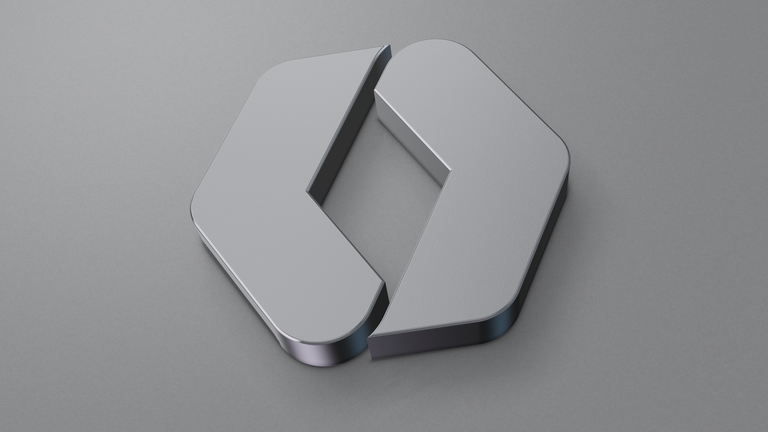
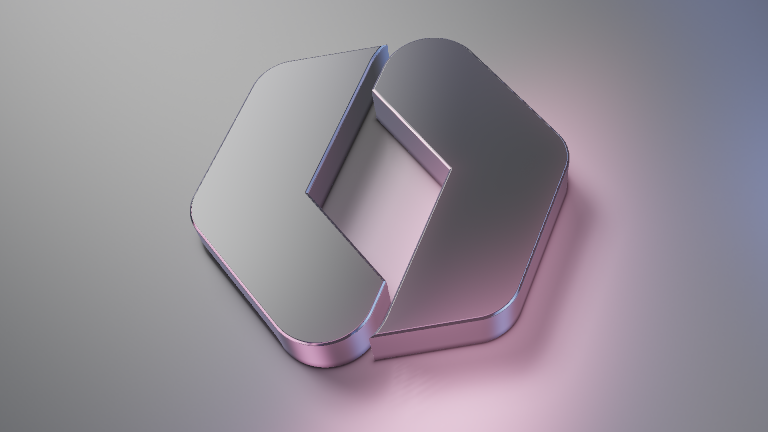
Enhance Portal motion and day-night lighting
Add local-time studio lighting with gradual dawn and dusk transitions,
directional daytime reflections, colored edge accents, and a darker night
scene. Refine the saved-time motion and balance shadow sampling cost.

Extend daylight lifecycle tests to Portal and update the documentation and
gallery preview. Validate with scripts/build.sh, scripts/test.sh, shader
output checks, and verified daytime and nighttime movie exports.

diff --git a/Tests/DaylightTests.swift b/Tests/DaylightTests.swift
@@ -43,66 +43,90 @@ import CoreVideo
         _ = NSApplication.shared
         let resources = URL(fileURLWithPath: CommandLine.arguments[1])
         let entries = ShaderLibrary.entries(in: resources)
-        let flight = entries.first { $0.id == "Flight" }!
-        let kernel = try ShaderKernel(source: flight.sourceURL)
-        precondition(kernel.usesLocalTime, "Flight does not expose its local-hour input")
         let size = CGSize(width: 320, height: 200)
-        func render(_ hour: Float) throws -> [UInt8] {
-            pixels(try kernel.frame(time: 18, size: size, localHour: hour))
-        }
-        let noon = try render(12), evening = try render(18.5), midnight = try render(0)
-        let repeatedNoon = try render(12), wrappedMidnight = try render(24)
-        precondition(noon == repeatedNoon, "Identical motion and local hour must render identically")
-        precondition(noon != evening && evening != midnight && noon != midnight,
-                     "Day, evening, and night must produce distinct lighting")
-        precondition(midnight == wrappedMidnight, "Midnight must match normalized 24:00")
-        let beforeMidnight = try render(24 - 1.0 / 3600), afterMidnight = try render(1.0 / 3600)
-        let midnightDelta = zip(beforeMidnight, afterMidnight).enumerated()
-            .filter { $0.offset % 4 != 3 }
-            .reduce(0.0) { $0 + Double(abs(Int($1.element.0) - Int($1.element.1))) }
-            / Double(Int(size.width * size.height) * 3)
-        precondition(midnightDelta < 0.25, "Lighting jumps across midnight: mean channel delta \(midnightDelta)")
+        func checkDaylight(_ entry: ShaderEntry) throws {
+            let kernel = try ShaderKernel(source: entry.sourceURL)
+            precondition(kernel.usesLocalTime, "\(entry.id) does not expose its local-hour input")
+            func render(_ hour: Float) throws -> [UInt8] {
+                pixels(try kernel.frame(time: 18, size: size, localHour: hour))
+            }
+            let noon = try render(12), evening = try render(18.5), midnight = try render(0)
+            let repeatedNoon = try render(12), wrappedMidnight = try render(24)
+            precondition(noon == repeatedNoon, "Identical motion and local hour must render identically")
+            precondition(noon != evening && evening != midnight && noon != midnight,
+                         "Day, evening, and night must produce distinct lighting")
+            precondition(midnight == wrappedMidnight, "Midnight must match normalized 24:00")
+            let beforeMidnight = try render(24 - 1.0 / 3600), afterMidnight = try render(1.0 / 3600)
+            let midnightDelta = zip(beforeMidnight, afterMidnight).enumerated()
+                .filter { $0.offset % 4 != 3 }
+                .reduce(0.0) { $0 + Double(abs(Int($1.element.0) - Int($1.element.1))) }
+                / Double(Int(size.width * size.height) * 3)
+            precondition(midnightDelta < 0.25, "Lighting jumps across midnight: mean channel delta \(midnightDelta)")
 
-        let root = CALayer(); root.frame = CGRect(origin: .zero, size: size)
-        var hour: Float = 12
-        let clock = MotionClock(saved: 18)
-        let renderer = try ShaderRenderer(entry: flight, clock: clock, root: root, scale: 1, daylightHour: { hour })
-        var renderError: Error?
-        renderer.onError = { renderError = $0 }
-        renderer.setDaylightUpdatesEnabled(true)
-        if let renderError { throw renderError }
-        precondition(renderer.isUpdatingDaylight && !renderer.isRendering, "Paused Flight needs only its daylight timer")
-        precondition(pixels(renderer.lastFrame!) == noon, "Injected noon differs from fixed-hour export")
-        for (newHour, expected) in [(Float(18.5), evening), (Float(0), midnight)] {
-            hour = newHour
-            let count = renderer.frameCount
-            renderer.refreshDaylight()
+            if entry.id == "Portal" {
+                func brightness(_ frame: [UInt8]) -> Double {
+                    stride(from: 0, to: frame.count, by: 4).reduce(0.0) { sum, i in
+                        sum + 0.0722*Double(frame[i]) + 0.7152*Double(frame[i+1]) + 0.2126*Double(frame[i+2])
+                    } / Double(frame.count / 4) / 255
+                }
+                let day = brightness(noon), night = brightness(midnight)
+                precondition(day > night + 0.12, "Portal's neutral daylight must visibly brighten the scene")
+                let dawn = brightness(try render(7.75)), dusk = brightness(try render(18.75))
+                precondition(dawn > night && dawn < day && dusk > night && dusk < day,
+                             "Portal's dawn and dusk must ease between night and day")
+                for boundary: Float in [6.5, 9, 17, 20.5] {
+                    let before = try render(boundary - 1.0 / 3600)
+                    let after = try render(boundary + 1.0 / 3600)
+                    let largestStep = zip(before, after).map { abs(Int($0) - Int($1)) }.max()!
+                    precondition(largestStep <= 1, "Portal's lighting jumps at a day/night transition")
+                }
+            }
+
+            let root = CALayer(); root.frame = CGRect(origin: .zero, size: size)
+            var hour: Float = 12
+            let clock = MotionClock(saved: 18)
+            let renderer = try ShaderRenderer(entry: entry, clock: clock, root: root, scale: 1, daylightHour: { hour })
+            var renderError: Error?
+            renderer.onError = { renderError = $0 }
+            renderer.setDaylightUpdatesEnabled(true)
             if let renderError { throw renderError }
-            precondition(renderer.frameCount == count + 1 && pixels(renderer.lastFrame!) == expected,
-                         "Paused lighting did not follow the wall clock")
-            precondition(clock.value == 18 && clock.settled && !renderer.isRendering,
-                         "Updating daylight advanced saved motion")
+            precondition(renderer.isUpdatingDaylight && !renderer.isRendering, "Paused \(entry.id) needs only its daylight timer")
+            precondition(pixels(renderer.lastFrame!) == noon, "Injected noon differs from fixed-hour export")
+            for (newHour, expected) in [(Float(18.5), evening), (Float(0), midnight)] {
+                hour = newHour
+                let count = renderer.frameCount
+                renderer.refreshDaylight()
+                if let renderError { throw renderError }
+                precondition(renderer.frameCount == count + 1 && pixels(renderer.lastFrame!) == expected,
+                             "Paused lighting did not follow the wall clock")
+                precondition(clock.value == 18 && clock.settled && !renderer.isRendering,
+                             "Updating daylight advanced saved motion")
+            }
+            renderer.setDaylightUpdatesEnabled(false)
+            let held = renderer.lastFrame!, heldCount = renderer.frameCount
+            hour = 12
+            renderer.refreshDaylight()
+            precondition(!renderer.isUpdatingDaylight && renderer.frameCount == heldCount && renderer.lastFrame === held,
+                         "A queued daylight callback must not draw after disabling updates")
+            renderer.setDaylightUpdatesEnabled(true)
+            if let renderError { throw renderError }
+            precondition(renderer.frameCount == heldCount + 1 && pixels(renderer.lastFrame!) == noon,
+                         "Re-enabling daylight must immediately catch up")
+            precondition(clock.value == 18, "Catching up after suspension advanced motion")
+
+            renderer.start()
+            let animatingCount = renderer.frameCount
+            renderer.refreshDaylight()
+            precondition(renderer.frameCount == animatingCount, "Daylight refresh duplicated an active animation timer")
+            renderer.stop()
+            precondition(renderer.isUpdatingDaylight && !renderer.isRendering, "Stopping motion also stopped daylight")
+            renderer.setDaylightUpdatesEnabled(false)
         }
-        renderer.setDaylightUpdatesEnabled(false)
-        let held = renderer.lastFrame!, heldCount = renderer.frameCount
-        hour = 12
-        renderer.refreshDaylight()
-        precondition(!renderer.isUpdatingDaylight && renderer.frameCount == heldCount && renderer.lastFrame === held,
-                     "A queued daylight callback must not draw after disabling updates")
-        renderer.setDaylightUpdatesEnabled(true)
-        if let renderError { throw renderError }
-        precondition(renderer.frameCount == heldCount + 1 && pixels(renderer.lastFrame!) == noon,
-                     "Re-enabling daylight must immediately catch up")
-        precondition(clock.value == 18, "Catching up after suspension advanced motion")
+        for name in ["Flight", "Portal"] {
+            try checkDaylight(entries.first { $0.id == name }!)
+        }
 
-        renderer.start()
-        let animatingCount = renderer.frameCount
-        renderer.refreshDaylight()
-        precondition(renderer.frameCount == animatingCount, "Daylight refresh duplicated an active animation timer")
-        renderer.stop()
-        precondition(renderer.isUpdatingDaylight && !renderer.isRendering, "Stopping motion also stopped daylight")
-        renderer.setDaylightUpdatesEnabled(false)
-
+        var hour: Float = 12
         let ordinary = entries.first { $0.id == ShaderLibrary.defaultShader }!
         let ordinaryRoot = CALayer(); ordinaryRoot.frame = CGRect(origin: .zero, size: size)
         let ordinaryRenderer = try ShaderRenderer(entry: ordinary, clock: MotionClock(saved: 18),
@@ -114,6 +138,6 @@ import CoreVideo
                      "Artwork without a local-hour input must not acquire a daylight timer")
         precondition(ordinaryRenderer.frameCount == ordinaryCount && ordinaryRenderer.lastFrame === ordinaryFrame,
                      "Other wallpapers must retain their exact held surface")
-        print("PASS: civil time, DST, time zones, deterministic daylight, midnight continuity, frozen motion, suspension, and unchanged ordinary wallpapers")
+        print("PASS: civil time, DST, time zones, Flight and Portal daylight, smooth transitions, midnight continuity, frozen motion, suspension, and unchanged ordinary wallpapers")
     }
 }

diff --git a/Sources/Shared/ShaderRenderer.swift b/Sources/Shared/ShaderRenderer.swift
@@ -191,7 +191,7 @@ final class ShaderRenderer {
     var isRendering: Bool { timer != nil }
     var isUpdatingDaylight: Bool { daylightTimer != nil }
 
-    /// A single environmental refresh per minute keeps the sky current while
+    /// A single environmental refresh per minute keeps environmental lighting current while
     /// motion remains exactly paused. No animation timer runs on the desktop.
     func setDaylightUpdatesEnabled(_ enabled: Bool) {
         guard enabled && kernel.usesLocalTime else {

diff --git a/README.md b/README.md
@@ -2,7 +2,7 @@
 
 Living wallpapers, drawn in Metal.
 
-Shader Paper moves while your Mac is locked or showing its screen saver, gently settles when you return, and holds its place while you work. Each wallpaper remembers its place and continues from there next time. Flight's sky also follows your Mac's local time, with dawn, daylight, sunset, and moonlit clouds.
+Shader Paper moves while your Mac is locked or showing its screen saver, gently settles when you return, and holds its place while you work. Each wallpaper remembers its place and continues from there next time. Flight's sky and Portal's studio lighting also follow your Mac's local time. Flight shifts through dawn, daylight, sunset, and moonlit clouds; Portal shows neutral silver by day and a darker studio at night, with colored edge accents throughout.
 
 ![Ink](docs/previews/Ink.png)
 
@@ -13,14 +13,14 @@ Eight included wallpapers: **Fable 5**, **GPT6-Astra**, **GPT6-Astra-II**, **Ink
 | Portal | Flight |
 | --- | --- |
 | ![Portal](docs/previews/Portal.png) | ![Flight](docs/previews/Flight.png) |
-| The [WorkOS](https://workos.com/) mark sculpted in magnesium: fine bead-blasted faces, precise chamfers, brushed cut walls, subtle violet and blue reflections, and a gentle turn accompanied by a drifting camera. | Tiny airliners crossing sunlit cloud banks, leaving fine trails that slowly dissolve. |
+| The [WorkOS](https://workos.com/) mark sculpted in magnesium: fine bead-blasted faces, precise chamfers, brushed cut walls, directional daylight with silver and blue edge highlights, a dark evening studio, restrained pink, violet, and blue reflections, and a gentle turn accompanied by a drifting camera. | Tiny airliners crossing sunlit cloud banks, leaving fine trails that slowly dissolve. |
 
 | Ink | Light | Weather |
 | --- | --- | --- |
 | ![Ink](docs/previews/Ink.png) | ![Light](docs/previews/Light.png) | ![Weather](docs/previews/Weather.png) |
 | Graphite finding paths through paper. | A quiet caustic cast by unseen glass. | Mist passing through a small landscape. |
 
-The artwork renders directly from its saved time. There is no recorded loop in the native wallpaper app. Once motion settles, its animation timer stops. Flight refreshes its lighting about once a minute while the aircraft and clouds stay still; other wallpapers retain the exact settled frame. Sky colors follow an artistic daily schedule, without location access or a sunrise calculation. Sleep and inactive surfaces stop these lighting updates too.
+The artwork renders directly from its saved time. There is no recorded loop in the native wallpaper app. Once motion settles, its animation timer stops. Flight and Portal refresh their lighting about once a minute while their motion stays still; other wallpapers retain the exact settled frame. Lighting follows an artistic daily schedule, without location access or a sunrise calculation. Portal eases into daylight from 06:30 to 09:00 and back to night from 17:00 to 20:30, using your Mac’s local time. Sleep and inactive surfaces stop these lighting updates too.
 
 ## Build and run
 
@@ -85,6 +85,6 @@ Builds compile and render every selected shader at two times and aspect ratios. 
 
 Live rendering uses 30 fps, or 15 in Low Power Mode, and caps the long edge at 2560 pixels. Lock/unlock changes motion over two seconds. Sleep and Reduce Motion pause immediately. The renderer converts half-float artwork to SDR for display. Exports can use higher resolutions.
 
-Shader entry points are `vertex_main` and `fragment_main`, with a `Float` animation time at fragment buffer 0 and an optional `Float` local hour at fragment buffer 1. Build thumbnails and exports default to noon; use `--hour` when exporting a different sky. See [architecture](docs/architecture.md) and the [artwork review](docs/studies/README.md).
+Shader entry points are `vertex_main` and `fragment_main`, with a `Float` animation time at fragment buffer 0 and an optional `Float` local hour at fragment buffer 1. Build thumbnails and exports default to noon; use `--hour` when exporting different lighting. See [architecture](docs/architecture.md) and the [artwork review](docs/studies/README.md).
 
 Shader Paper grew out of [A Visual Meditation on Thinking](https://github.com/kanalo-shrek/a-visual-meditation). That project retains the original model experiment. Source history and third-party attributions are documented in [NOTICE.md](NOTICE.md).

diff --git a/docs/architecture.md b/docs/architecture.md
@@ -6,9 +6,9 @@ The shared clock integrates a smooth velocity change when macOS switches between
 
 The renderer first evaluates the shader into an `rgba16Float` texture, then converts the result to an SDR display surface. Artwork needs a fullscreen triangle, `vertex_main`, `fragment_main`, and a Float animation time at fragment buffer 0. Time-aware artwork may read a Float local hour in [0, 24) at fragment buffer 1. Pipeline reflection detects use of that optional input; existing artwork ignores it. No external shader files or renderer services are loaded at runtime.
 
-Flight's lighting uses local civil time from the Mac's current calendar and time zone, independently of saved motion time. While motion is paused, one environmental redraw about every minute updates the sky without moving aircraft or clouds. Animated frames already update the lighting, so the minute callback skips them. Only valid, active, non-preview surfaces schedule these updates; sleep, inactivity, invalidation, replacement, and render errors cancel them. Clock and time-zone notifications refresh eligible held surfaces, and waking re-enables updates with an immediate redraw. Reduce Motion keeps geometry paused while allowing the sky's lighting to follow the clock. Other shaders retain their exact settled display buffer and have no daylight timer.
+Flight and Portal lighting use local civil time from the Mac's current calendar and time zone, independently of saved motion time. While motion is paused, one environmental redraw about every minute updates the lighting without advancing geometry, camera motion, or animated accent sweeps. Animated frames already update the lighting, so the minute callback skips them. Only valid, active, non-preview surfaces schedule these updates; sleep, inactivity, invalidation, replacement, and render errors cancel them. Clock and time-zone notifications refresh eligible held surfaces, and waking re-enables updates with an immediate redraw. Reduce Motion keeps geometry paused while allowing environmental lighting to follow the clock. Other shaders retain their exact settled display buffer and have no daylight timer.
 
-Build thumbnails and exports use a fixed noon hour by default. The exporter accepts `--hour` to reproduce dawn, dusk, or night independently of animation time, including repeated frames and movie comparisons. The daily palette is artist-directed rather than tied to geographic sunrise or seasonal day length.
+Build thumbnails and exports use a fixed noon hour by default. The exporter accepts `--hour` to reproduce dawn, dusk, or night independently of animation time, including repeated frames and movie comparisons. The daily palette is artist-directed rather than tied to geographic sunrise or seasonal day length. Portal blends its neutral room lighting from night to day over 06:30–09:00 and from day to night over 17:00–20:30. Its original colored grazing lights keep their source colors and intensities across the day; their movement uses saved animation time. Additional silver and blue edge lights accompany the daytime window, with less ambient fill and a stronger cast shadow.
 
 Selection registers the embedded extension and updates the user's private wallpaper store atomically. It preserves a previous-selection snapshot and timestamped backups. Restore keeps subsequent independent user choices. Build and test scripts do not activate the wallpaper.
 

diff --git a/tools/export/README.md b/tools/export/README.md
@@ -13,7 +13,7 @@ Build with `bash tools/export/build.sh` from the repository root. This tool comp
 
 All commands require `--shader FILE --out FILE`. The default dimensions are 1920 × 1080, time is 0 seconds, and movies default to 30 seconds at 30 fps. Use `--width`, `--height`, `--time`, `--duration`, and `--fps` to change them. Movie dimensions must be even. Output paths should be new files under `build/`.
 
-`--hour` sets a fixed local hour independently of animation time, defaulting to 12 (noon). Use a finite value from 0 inclusive to 24 exclusive; fractional values are supported, such as `--hour 6.5` for 06:30. Flight uses this input for its daylight mood; shaders without local-hour lighting ignore it. The chosen hour stays fixed throughout an export rather than following the computer's clock.
+`--hour` sets a fixed local hour independently of animation time, defaulting to 12 (noon). Use a finite value from 0 inclusive to 24 exclusive; fractional values are supported, such as `--hour 6.5` for 06:30. Flight uses this input for its sky and Portal for its neutral studio lighting; shaders without local-hour lighting ignore it. The chosen hour stays fixed throughout an export rather than following the computer's clock.
 
 ```sh
 build/export/render-shader movie --shader Resources/shaders/Flight.shader \
